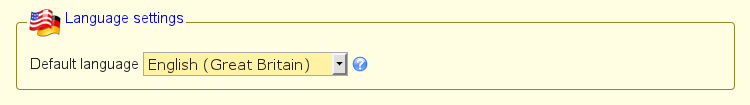
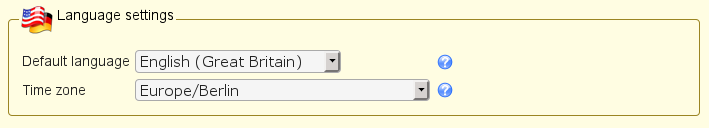
added time zone setting to server profile

diff --git a/lam/templates/config/confmain.php b/lam/templates/config/confmain.php
@@ -303,8 +303,22 @@ if(!empty($possibleLanguages)) {
 else {
 	$languageSettingsContent->addElement(new htmlStatusMessage('ERROR', "Unable to load available languages. Setting English as default language."));
 }
+$timezones = array();
+$timezones = array_merge($timezones, DateTimeZone::listIdentifiers(DateTimeZone::AFRICA));
+$timezones = array_merge($timezones, DateTimeZone::listIdentifiers(DateTimeZone::AMERICA));
+$timezones = array_merge($timezones, DateTimeZone::listIdentifiers(DateTimeZone::ANTARCTICA));
+$timezones = array_merge($timezones, DateTimeZone::listIdentifiers(DateTimeZone::ARCTIC));
+$timezones = array_merge($timezones, DateTimeZone::listIdentifiers(DateTimeZone::ASIA));
+$timezones = array_merge($timezones, DateTimeZone::listIdentifiers(DateTimeZone::ATLANTIC));
+$timezones = array_merge($timezones, DateTimeZone::listIdentifiers(DateTimeZone::AUSTRALIA));
+$timezones = array_merge($timezones, DateTimeZone::listIdentifiers(DateTimeZone::EUROPE));
+$timezones = array_merge($timezones, DateTimeZone::listIdentifiers(DateTimeZone::INDIAN));
+$timezones = array_merge($timezones, DateTimeZone::listIdentifiers(DateTimeZone::PACIFIC));
+$languageSettingsContent->addElement(new htmlTableExtendedSelect('timeZone', $timezones, array($conf->getTimeZone()), _('Time zone'), '213'), true);
 $languageSettings = new htmlFieldset($languageSettingsContent, _("Language settings"), '../../graphics/language.png');
 $container->addElement($languageSettings, true);
+
+
 $container->addElement(new htmlSpacer(null, '10px'), true);
 
 // lamdaemon settings
@@ -577,6 +591,7 @@ function checkInput() {
 	if (!$conf->set_defaultLanguage($_POST['lang'])) {
 		$errors[] = array("ERROR", _("Language is not defined!"));
 	}
+	$conf->setTimeZone($_POST['timeZone']);
 	if (!$conf->set_scriptpath($_POST['scriptpath'])) {
 		$errors[] = array("ERROR", _("Script path is invalid!"));
 	}
